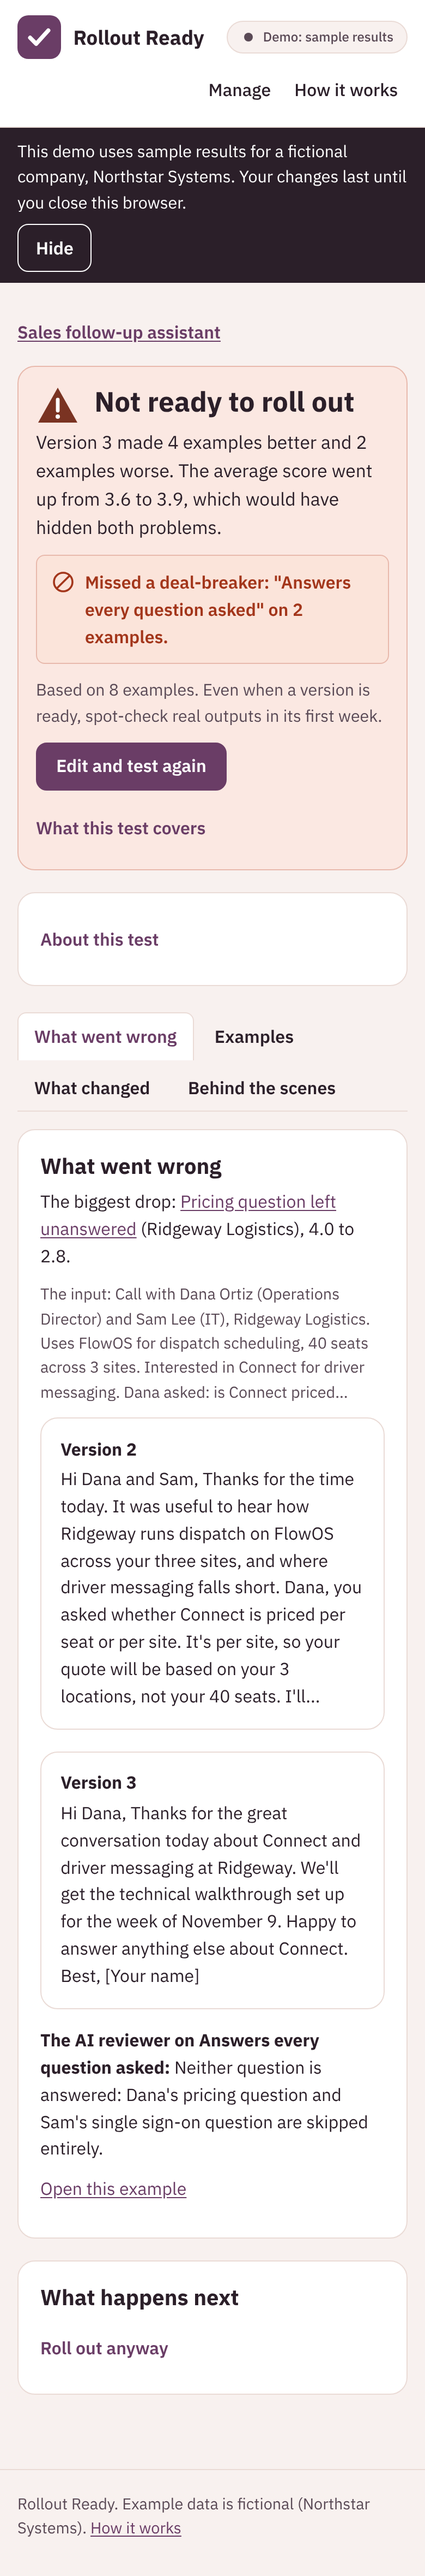
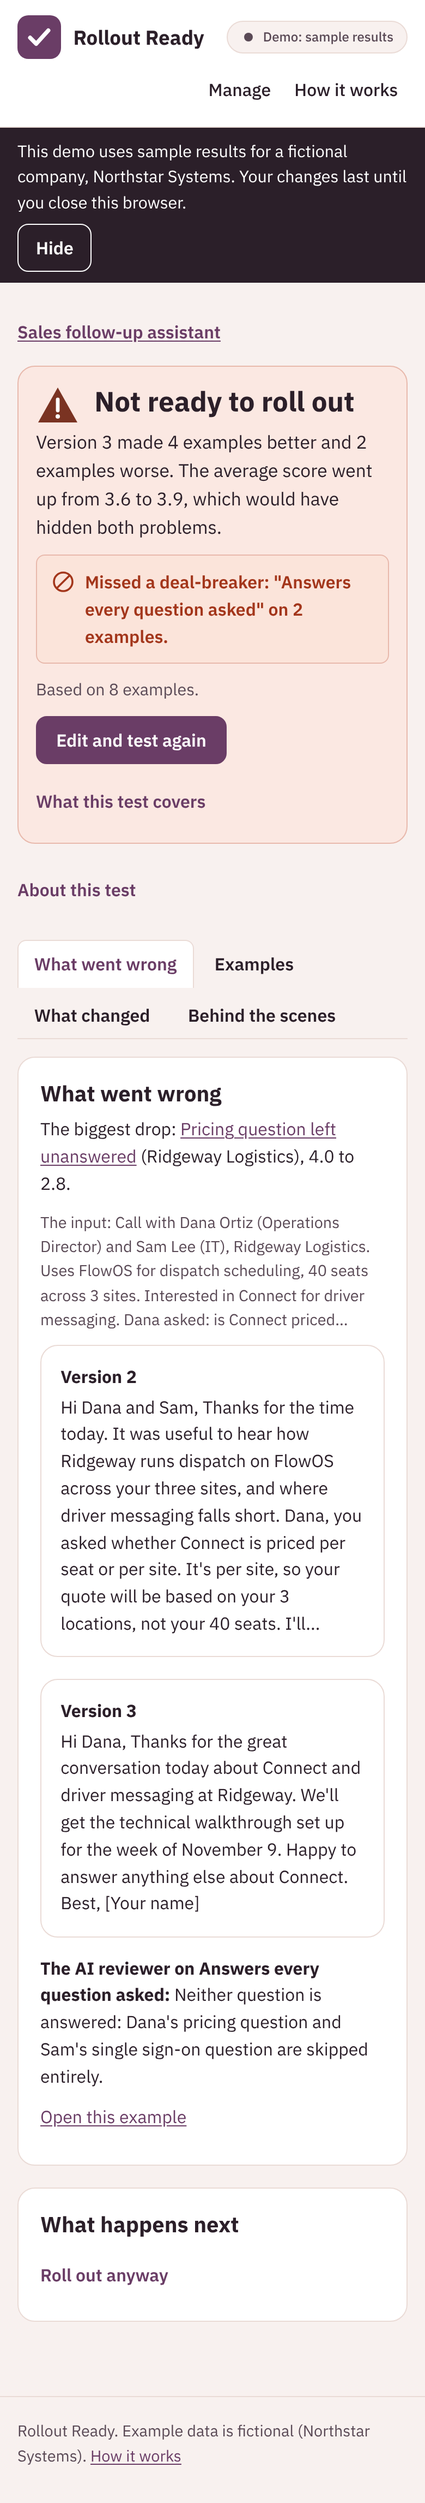
Review fixes: Ready-only reminder, slimmer details, wording
The spot-check reminder now shows on Ready to roll out only; other
verdicts keep "Based on N examples." "About this test" is a slim
one-line disclosure instead of an empty-looking card. The unattached
"What's this?" link under the start screen's cards is gone. Partner
outreach's description, who uses it and input label say business
development. The README says how the current screens were built.

Claude-Session: https://claude.ai/code/session_01B5gJeuGjCZ5w3fxs9hAeCy

Changed region(s): [[0.0, 0.0312, 1.0, 0.9355], [0.0923, 0.6548, 0.1231, 0.686]]

diff --git a/rollout_ready/web/templates/home.html b/rollout_ready/web/templates/home.html
@@ -1,5 +1,5 @@
 {% extends "base.html" %}
-{% from "_macros.html" import notice, team_tag, whats_this, help_text with context %}
+{% from "_macros.html" import notice, team_tag %}
 {% block content %}
 <section class="hero" aria-labelledby="hero-h">
   <p class="hero-kicker">The output reveals the gap.</p>
@@ -35,7 +35,6 @@
   {% if settings.is_public %}{{ notice(private_note, "info") }}{% endif %}
   {% if error %}{{ notice(error, "error") }}{% endif %}
   <ul class="plain-list set-list">{% for c in waiting %}{{ set_card(c) }}{% endfor %}</ul>
-  {% if waiting %}{{ whats_this("the verdict", help_text("verdict")) }}{% endif %}
   {% if quiet %}
   <details class="more-sets"{% if not waiting %} open{% endif %}>
     <summary>Show {{ quiet|length }} more with no changes waiting</summary>

diff --git a/rollout_ready/web/templates/compare.html b/rollout_ready/web/templates/compare.html
@@ -94,7 +94,7 @@
   </details>
 </section>
 
-<details class="card about-test">
+<details class="about-test">
   <summary>About this test</summary>
   <p>{{ vname(new_id)|capitalize }}, the version you're trying, compared with {{ vname(current_id) }}{% if current_id == in_use_id %}, the version your team uses now{% elif comp.record and comp.record.baseline_in_use %} (in use at the time){% endif %}.</p>
   <p><strong>{{ comp.new.title or "What changed" }}.</strong> {{ comp.new.note }}</p>

diff --git a/rollout_ready/web/static/style.css b/rollout_ready/web/static/style.css
@@ -525,3 +525,5 @@ progress { width: 100%; height: 1.25rem; accent-color: var(--primary); }
 .how-more details[open] > summary { margin-bottom: .5rem; }
 .section-title { font-size: 1.25rem; margin: 1.5rem 0 .75rem; }
 .excerpts { margin-bottom: 1rem; }
+.about-test { margin: 0 0 .5rem; }
+.about-test[open] { background: var(--card); border: 1px solid var(--line); border-radius: var(--radius-card); padding: 0 1.25rem 1rem; }

diff --git a/tests/test_v3_pages.py b/tests/test_v3_pages.py
@@ -40,8 +40,8 @@ REQUIRED = {
                                "until you roll it out.", "Edit the version your team uses now",
                                "What are you changing, and why?", "It will be tested on 8 examples"],
     "/i/followup-email/result?current=v2&new=v3": [
-        "Not ready to roll out", "Based on 8 examples. Even when a version is ready, spot-check real outputs in its "
-        "first week.", "What this test covers", "Tested on Claude using these instructions and 8 saved examples."],
+        "Not ready to roll out", "Based on 8 examples.", "What this test covers",
+        "Tested on Claude using these instructions and 8 saved examples."],
     "/how-it-works": ["What each verdict means", "What rolling out does and doesn't do"],
 }
 
@@ -72,7 +72,7 @@ def summaries(page: str) -> list[str]:
 
 
 def test_whats_this_where_the_terms_appear(demo):
-    assert summaries(demo.get("/").text) == ["What's this? the verdict"]
+    assert summaries(demo.get("/").text) == []  # removed at review: it wasn't attached to anything
     assert summaries(demo.get("/i/followup-email").text) == [
         "What's this? the verdict", "What's this? example kinds", "What's this? deal-breakers"]
     assert summaries(demo.get("/i/followup-email/result?current=v2&new=v3").text) == [
@@ -149,3 +149,13 @@ def test_old_addresses_land_on_the_new_pages(demo, old, final):
 def test_plain_words_on_every_page(demo, url):
     r = demo.get(url)
     assert r.status_code == 200 and technical_words(page_text(r.text)) == []
+
+
+def test_partner_outreach_says_business_development(demo):
+    """Section 8 renamed the team everywhere it shows. Tested version texts are left as they were written."""
+    from rollout_ready.storage import Store
+    from conftest import SUITES
+    suite = Store(SUITES).load_suite("partner-outreach")
+    for field in (suite.description, suite.who_uses_it, suite.input_label, suite.team):
+        assert "partnership" not in field.lower()
+    assert "a business development rep's notes" in page_text(demo.get("/").text)

diff --git a/tests/test_result_page.py b/tests/test_result_page.py
@@ -34,8 +34,7 @@ def test_not_ready_shows_one_clear_answer(demo):
     top = above_the_fold(demo.get(NOT_READY).text)
     assert top == ('Not ready to roll out Version 3 made 4 examples better and 2 examples worse. The average score '
                    'went up from 3.6 to 3.9, which would have hidden both problems. Missed a deal-breaker: "Answers '
-                   'every question asked" on 2 examples. Based on 8 examples. Even when a version is ready, '
-                   'spot-check real outputs in its first week. Edit and test again')
+                   'every question asked" on 2 examples. Based on 8 examples. Edit and test again')
 
 
 def test_ready_main_action_jumps_to_the_steps_on_this_page(demo):
@@ -64,7 +63,7 @@ def test_header_details_and_scope_are_behind_disclosures(demo):
     assert "What does this verdict mean? The verdict is one answer from the examples:" in scope
     assert "What's a deal-breaker? A deal-breaker is a quality an answer must never get wrong" in scope
     assert "blocks a rollout, whatever the average says." in scope
-    about = page_text(page.split('<details class="card about-test">')[1].split("</details>")[0])
+    about = page_text(page.split('<details class="about-test">')[1].split("</details>")[0])
     assert about.startswith("About this test Version 3, the version you're trying, compared with version 2, "
                             "the version your team uses now.")
     assert "Saved example: recorded results" in about and "Under 120 words." in about

diff --git a/tests/test_web.py b/tests/test_web.py
@@ -147,7 +147,7 @@ def test_results_opens_on_the_latest_result(demo):
     # Decision 2: one short deal-breaker line above the fold; the longer rule is in About this test.
     assert 'Missed a deal-breaker: "Answers every question asked" on 2 examples.' in text
     assert "A missed deal-breaker blocks a rollout, whatever the average says." in text
-    assert "Based on 8 examples. Even when a version is ready, spot-check real outputs in its first week." in text
+    assert "Based on 8 examples." in text and "spot-check" not in text  # the reminder is for Ready only
     assert "Edit and test again" in text
     # What went wrong opens first for Not ready (PR 2a decision).
     assert 'id="tab-wrong" href="?tab=wrong#tabs" aria-controls="panel-wrong" aria-selected="true"' in r.text
@@ -219,7 +219,9 @@ def test_demo_verdicts_render(demo):
                     ("suite=webinar-invite&current=v1&new=v2", "No clear difference"),
                     ("suite=webinar-invite&current=v2&new=v3", "Not ready to roll out")]:
         page = demo.get("/results?" + q).text
-        assert text in page and "spot-check real outputs in its first week" in page
+        assert text in page and "Based on" in page
+        # The spot-check reminder shows on Ready only.
+        assert ("spot-check real outputs in its first week" in page) == (text == "Ready to roll out")
 
 
 def test_picking_a_prompt_opens_its_default_pair(demo):

diff --git a/tests/test_demo_data.py b/tests/test_demo_data.py
@@ -82,7 +82,9 @@ def test_featured_deal_breaker_callout_and_evidence_line(demo_store):
     assert comp.deal_breaker_callout == (
         'Missed a deal-breaker: "Answers every question asked" on 2 examples. '
         "A missed deal-breaker blocks a rollout, whatever the average says.")
-    assert comp.evidence_line == "Based on 8 examples. Even when a version is ready, spot-check real outputs in its first week."
+    assert comp.evidence_line == "Based on 8 examples."  # the spot-check reminder is for Ready only
+    ready = build_comparison(demo_store, "followup-email", "v2", "v4", live=False)
+    assert ready.evidence_line == "Based on 8 examples. Even when a version is ready, spot-check real outputs in its first week."
     assert comp.mix_line == "Example mix: 3 everyday, 2 messy, 2 tricky, 1 that caused a problem before."
 
 

diff --git a/rollout_ready/compare.py b/rollout_ready/compare.py
@@ -302,9 +302,12 @@ class Comparison:
 
     @property
     def evidence_line(self) -> str:
+        """Every verdict says how many examples it rests on; Ready adds the spot-check reminder."""
         n = len(self.rows)
-        return (f"Based on {n} {scoring._cases(n)}. Even when a version is ready, "
-                "spot-check real outputs in its first week.")
+        line = f"Based on {n} {scoring._cases(n)}."
+        if self.verdict == scoring.READY:
+            line += " Even when a version is ready, spot-check real outputs in its first week."
+        return line
 
     @property
     def mix_line(self) -> str:

diff --git a/docs/design.md b/docs/design.md
@@ -35,7 +35,7 @@ A deal-breaker is missed when the AI reviewer scores it 2 or lower, even once wh
 1. **One broken example matters more than the average.** The verdict counts examples that got worse, not the average. In the demo, version 3 of the follow-up email raised the average from 3.6 to 3.9 but stopped answering customers' questions on 2 examples, so it is "Not ready to roll out."
 2. **Deal-breakers block a rollout.** Some qualities must never go wrong: the facts, the dates, answering what was asked. If the version you're trying misses a deal-breaker on any example, it can't be "Ready to roll out", whatever the average says, and the verdict names the deal-breaker and how many examples missed it.
 3. **People get the last word.** The AI reviewer can be wrong. A person can override any example's result with a required one-line reason. Overrides apply only to the results they were made on, never change the AI reviewer's stored scores or hide a missed deal-breaker, and are listed on the verdict and in the shared summary so nobody is surprised.
-4. **Honest about the evidence.** Every verdict says "Based on N examples. Even when a version is ready, spot-check real outputs in its first week." 6 to 8 good examples catch most breakages; they can't prove a prompt will never break.
+4. **Honest about the evidence.** Every verdict says "Based on N examples." Ready to roll out adds "Even when a version is ready, spot-check real outputs in its first week." 6 to 8 good examples catch most breakages; they can't prove a prompt will never break.
 5. **A good example mix.** Each example is Everyday, Messy, Tricky, or Caused a problem before. Results show the mix, and the app nudges you when there are no messy or tricky examples, because that is where prompts usually break.
 6. **Blind, independent scoring.** The AI reviewer scores one output at a time and never sees which version wrote it, or the other version's output. That also means results are saved per version, so only the version you're trying needs to run.
 7. **Plain words, in the browser.** No files, Git or terminal for the main flow, and no engineering words on screen. Teams that keep prompts in a repo can use the same files plus a command line.

diff --git a/README.md b/README.md
@@ -49,7 +49,7 @@ The owner of a set of AI instructions in a sales, marketing, business developmen
 - **One broken example matters more than the average.** In the demo, version 3 of the Sales follow-up assistant raised the average from 3.6 to 3.9 but stopped answering customers' questions on 2 examples, so it is "Not ready to roll out."
 - **Deal-breakers always block.** A score of 2 or lower on a deal-breaker, in any run, means "Not ready to roll out". People can overrule the AI reviewer on an example, with a reason, but never hide a missed deal-breaker.
 - **Rolling out is recorded, not performed.** Each release says which version, when, who confirmed it, and the test it relied on. An exception keeps its original verdict.
-- **Honest about the evidence.** Every verdict says "Based on N examples. Even when a version is ready, spot-check real outputs in its first week."
+- **Honest about the evidence.** Every verdict says "Based on N examples." Ready adds: "Even when a version is ready, spot-check real outputs in its first week."
 - **Blind scoring, real logic in the demo.** The AI reviewer never sees which version wrote an answer, and the demo replays recorded answers through the same scoring and verdict code.
 
 ## What's saved
@@ -130,4 +130,4 @@ rollout run followup-email --current v2 --new v3
 - [Configuration](docs/configuration.md): demo and live mode, settings, public live mode and its limits
 - [Deploy](docs/deploy.md): Cloud Run, secrets and a spending cap
 
-Screens were mocked up on a design canvas in Claude before any code was written, then built with Claude Code.
+The current screens were built from a written spec with Claude Code, and each change was reviewed as screenshots before merging.

diff --git a/CLAUDE.md b/CLAUDE.md
@@ -110,7 +110,7 @@ Live mode: `ROLLOUT_MODE=live` plus `ANTHROPIC_API_KEY`. Public live mode adds `
 - Accessible on any screen size: labels on every input, visible focus, 44px targets, 4.5:1 contrast, no sideways scroll at 320px, reduced motion respected. No gradients, no emoji.
 - Plain UI copy for non-engineers: follow the word list above. Never "system prompt", "eval", "regression".
 - Colors: plum and blush, each defined once as a CSS custom property in `style.css`; use only those.
-- Every verdict shows the evidence line: "Based on N examples. Even when a version is ready, spot-check real outputs in its first week."
+- Every verdict shows the evidence line "Based on N examples."; Ready to roll out adds "Even when a version is ready, spot-check real outputs in its first week."
 - Don't add features beyond the spec without asking.
 
 ## Git
